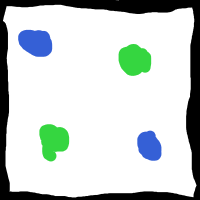
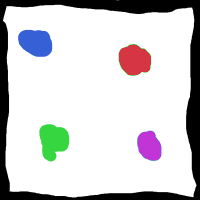
fixed pattern renderer sprite flipping

Changed region(s): [[0.57, 0.21, 0.78, 0.39], [0.69, 0.66, 0.81, 0.81]]

diff --git a/ElbranEngine2/ElbranEngine2/Game.cpp b/ElbranEngine2/ElbranEngine2/Game.cpp
@@ -51,6 +51,8 @@ Game::Game() {
 	pattern->transform->zOrder = 1;
 	pattern->blockSize.x *= 1.4f;
 	pattern->origin = Vector2(-0.6f, -0.7f);
+	pattern->flipY = true;
+	pattern->flipX = true;
 
 	originTest = new ShapeRenderer(ShapeRenderer::Shape::Circle, Color::Red);
 	testScene->AddRenderer(originTest, false);
@@ -104,24 +106,24 @@ void Game::Update(float deltaTime) {
 	cursor->transform->rotation += 20.0f * app->input->GetMouseWheelSpin() * deltaTime;
 
 	if(app->input->IsPressed(InputAction::Up)) {
-		pattern->transform->scale.y += deltaTime;
+		//pattern->transform->scale.y += deltaTime;
 		//pattern->origin.y += deltaTime;
-		//pattern->blockSize.y += deltaTime;
+		pattern->blockSize.y += deltaTime;
 	}
 	if(app->input->IsPressed(InputAction::Down)) {
-		pattern->transform->scale.y -= deltaTime;
+		//pattern->transform->scale.y -= deltaTime;
 		//pattern->origin.y -= deltaTime;
-		//pattern->blockSize.y -= deltaTime;
+		pattern->blockSize.y -= deltaTime;
 	}
 	if(app->input->IsPressed(InputAction::Left)) {
-		pattern->transform->scale.x -= deltaTime;
+		//pattern->transform->scale.x -= deltaTime;
 		//pattern->origin.x -= deltaTime;
-		//pattern->blockSize.x -= deltaTime;
+		pattern->blockSize.x -= deltaTime;
 	}
 	if(app->input->IsPressed(InputAction::Right)) {
-		pattern->transform->scale.x += deltaTime;
+		//pattern->transform->scale.x += deltaTime;
 		//pattern->origin.x += deltaTime;
-		//pattern->blockSize.x += deltaTime;
+		pattern->blockSize.x += deltaTime;
 	}
 
 	originTest->transform->position = pattern->origin;

diff --git a/ElbranEngine2/ElbranEngine2/PatternRenderer.cpp b/ElbranEngine2/ElbranEngine2/PatternRenderer.cpp
@@ -26,11 +26,12 @@ void PatternRenderer::Draw() {
 
 	CameraVSConstants vsInput;
 	vsInput.worldTransform = worldMatrix->Transpose();
-	vsInput.uvScale = globalScale / blockSize * Vector2(flipX ? -1 : 1, flipY ? -1 : 1); // assumes wrap enabled on sampling
+	Vector2 flips = Vector2(flipX ? -1 : 1, flipY ? -1 : 1); // assumes wrap enabled on sampling
+	vsInput.uvScale = globalScale / blockSize * flips;
 	Vector2 worldOffset = (mid - right - up) - origin;
 	worldOffset.y *= -1.f; // uvs are flipped vertically
 	vsInput.uvOffset = worldOffset / blockSize + Vector2(0.f, -Math::FractionOf(globalScale.y / blockSize.y));
-	//vsInput.uvOffset = Vector2(((mid - right) - origin).x / blockSize.x, (origin - (mid - up)).y / blockSize.y - Math::FractionOf(globalScale.y / blockSize.y));// ((mid - right + up) - origin) / globalScale / blockSize;
+	vsInput.uvOffset *= flips;
 	graphics->SetVertexShader(&app->assets->cameraVS, &vsInput, sizeof(CameraVSConstants));
 
 	TexturePSConstants psInput;
